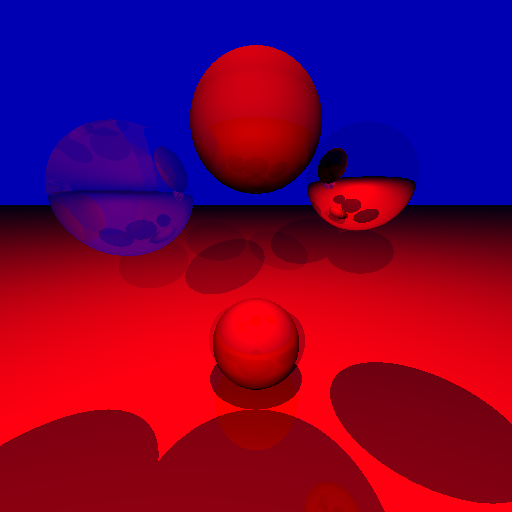
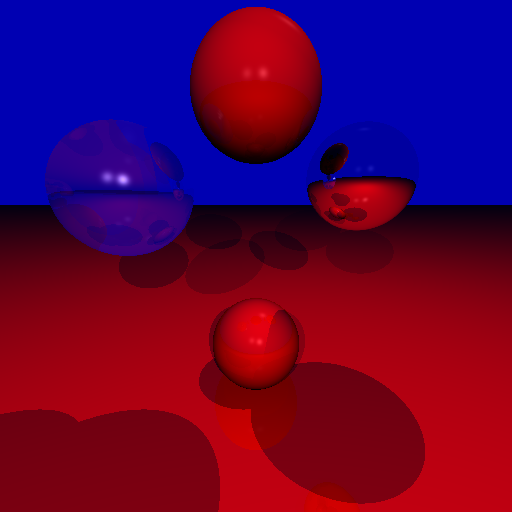
rerfract fix

diff --git a/main.cpp b/main.cpp
@@ -19,10 +19,12 @@ inline float limit(const float lo, const float hi, const float value)
 Vec3f refract(const Vec3f &v, Vec3f  normal, float n2)
 {
     float n1 = 1;
-    float cosa = -limit(-1.f, 1.f, dot(v,normal));
-    if (cosa < 0){ // inside
+    float cosa = limit(-1.f, 1.f, dot(v,normal));
+    if (cosa < 0){
+        cosa = -cosa;
+    } else { // inside
         normal = -normal;
-        std::swap(n1, n2);
+        std::swap(n1, n2);    
     }
     float n = n1/ n2;
     float cosb2 =  1 - n * n *(1 - cosa * cosa);
@@ -30,7 +32,7 @@ Vec3f refract(const Vec3f &v, Vec3f  normal, float n2)
         return Vec3f(0,0,0);
     }
     return v * n + normal * (n * cosa - sqrtf(cosb2));
-}
+} 
 struct Light
 {
     Vec3f position;
@@ -181,7 +183,7 @@ namespace Options
     constexpr float fov =  M_PI / 2;
     constexpr uint32_t width = 512;
     constexpr uint32_t height = 512;
-    constexpr uint32_t max_depth = 4;
+    constexpr uint32_t max_depth = 8;
     constexpr float max_distance = 100000;
     constexpr float offset = 0.01;
     const Vec3f background(0, 0, 0.7);
@@ -312,21 +314,21 @@ int main(int argc, const char** argv)
     std::vector<Object *> object;
     std::vector<Light *> light;
     // n diff_color , specular, kd, ks, refl. refr
-    Material glass(1.5, Vec3f(0.6, 0.7, 0.8), 1.1 ,0, 0.03, 0.3, 0.7);
-    Material mirror(1.0, Vec3f(1.0, 1.0, 1.0), 1.2, 0, 0.001, 0.9, 0);
-    Material plastic(1.5, Vec3f(0.7,0,0), 1.205, 0.8, 0.2, 0.1, 0);
+    Material glass(1.5, Vec3f(0.6, 0.7, 0.8), 100 ,0.1, 0.1, 0.2, 0.8);
+    Material mirror(1.0, Vec3f(1.0, 1.0, 1.0), 200, 0, 0.1, 0.9, 0);
+    Material plastic(1.5, Vec3f(0.7,0,0), 125, 0.8, 0.2, 0.1, 0);
     Vec3f *buf = nullptr;
     uint32_t *bmp = nullptr;
     if(sceneId == 1){
-       // object.push_back(new Sphere(Vec3f(0,-2,-5),2, plastic));
+        //object.push_back(new Sphere(Vec3f(0,-2,-5),2, plastic));
         //object.push_back(new Sphere(Vec3f(2.5,1,-6),2, plastic));
-        object.push_back(new Sphere(Vec3f(-2,-1,-4),1, glass));
-        object.push_back(new Sphere(Vec3f(0,-2,-4),1, plastic));
+        object.push_back(new Sphere(Vec3f(-2, 0,-3.5),1, glass));
+        object.push_back(new Sphere(Vec3f(0,-2.5,-4),1, plastic));
         object.push_back(new Sphere(Vec3f(2, -1.5, -5),1, mirror));
         object.push_back(new Sphere(Vec3f(0, 2, -6),1, plastic));
         object.push_back(new Plane(Vec3f(0,4,0),Vec3f(0,-0.5, 0.1), plastic));
         light.push_back(new Light(Vec3f(2, -2, 7), 0.9));
-        //light.push_back(new Light(Vec3f(-2, -2, 5), 0.5));
+        light.push_back(new Light(Vec3f(-2, -2, 5), 0.5));
         light.push_back(new Light(Vec3f(3, -10, -5), 0.5));
         buf = render(object, light);
     }
